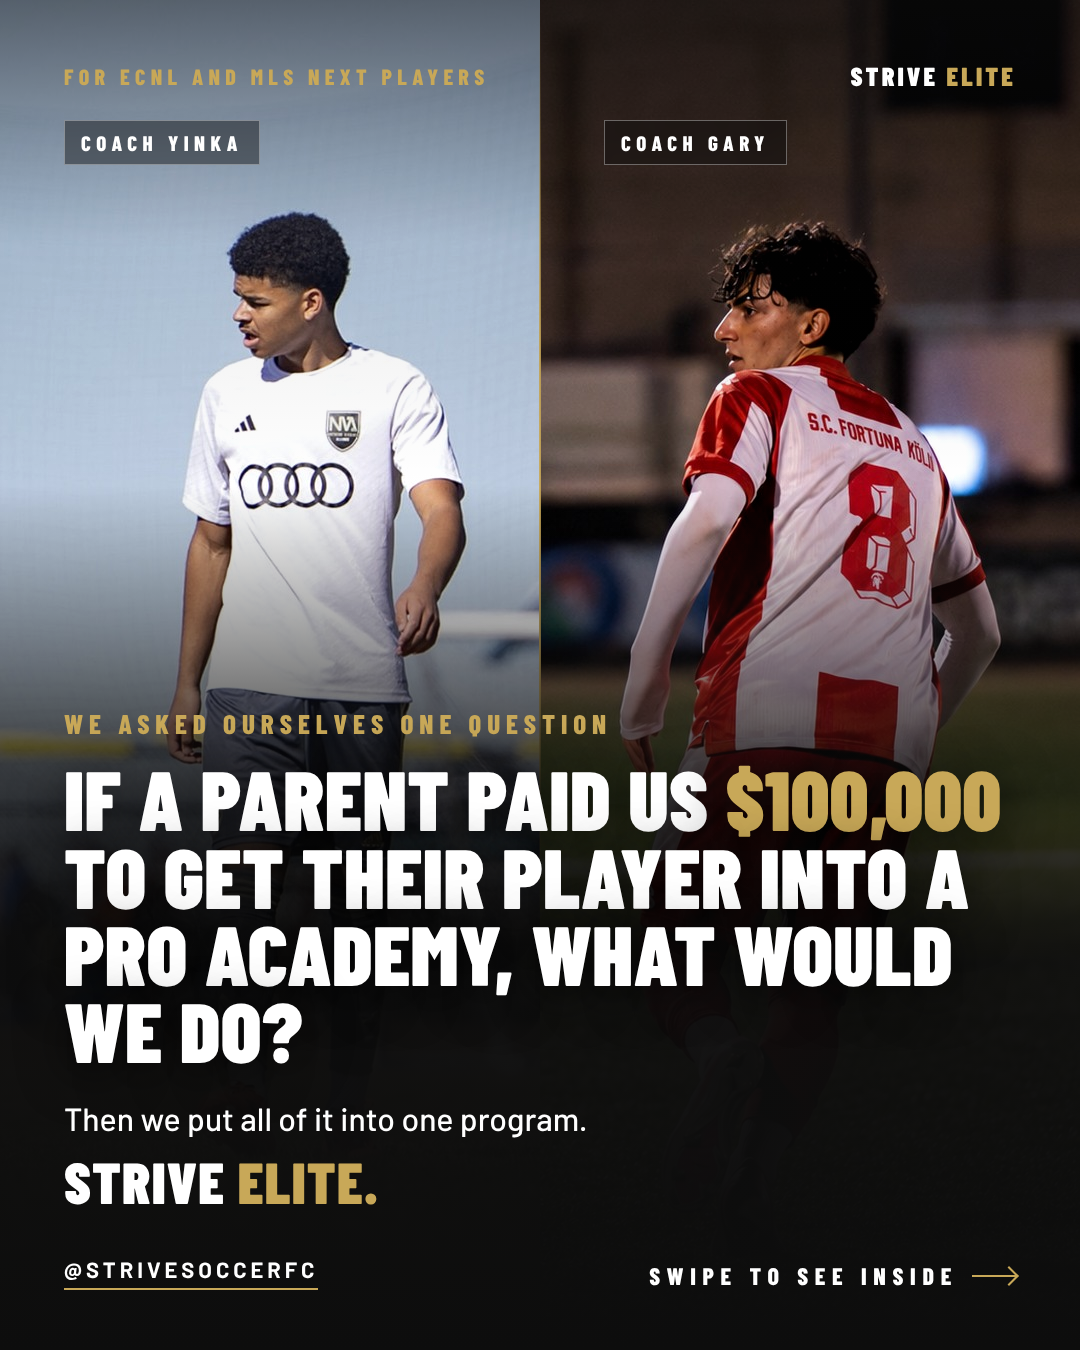
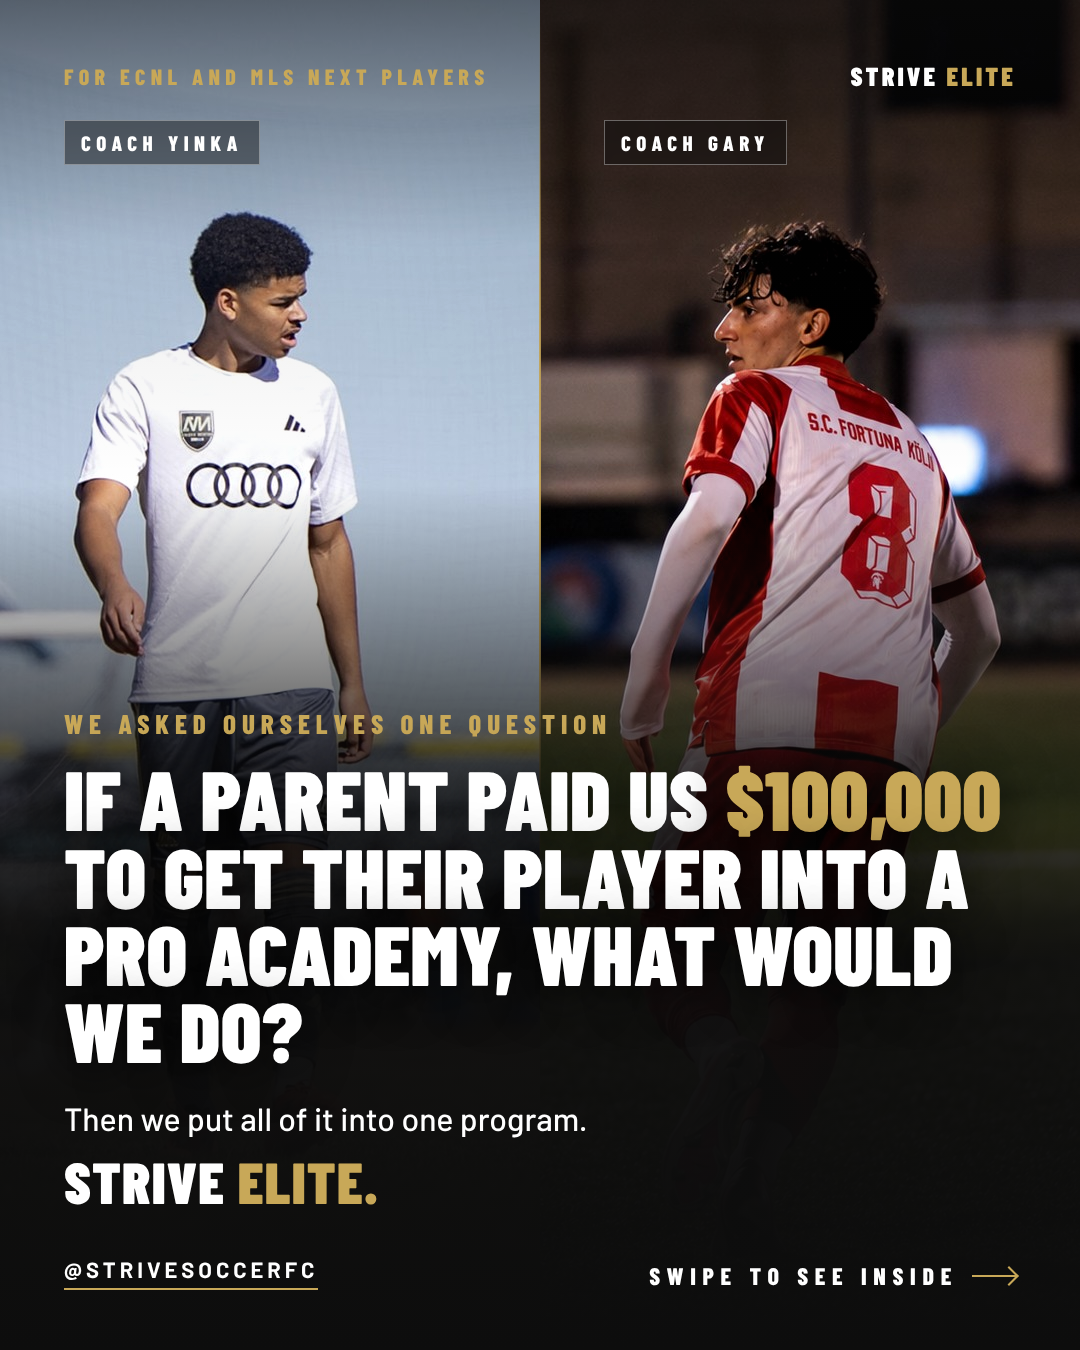
Offer carousel: standing cover option mirrored toward Gary
Claude-Session: https://claude.ai/code/session_011JsCTTjCbUkHbTuWTKQSXJ

Changed region(s): [[0.0, 0.1556, 0.5194, 0.5911], [0.4278, 0.5289, 0.4889, 0.5911], [0.0, 0.5289, 0.0611, 0.5911]]

diff --git a/CLAUDE.md b/CLAUDE.md
@@ -3215,6 +3215,11 @@ commit.
       photo mirrored toward Gary); cover.png stays the sprint version
       until he picks. Sources photos/yinka-standing.jpg and
       photos/yinka-sprint.jpg. Sent.
+      THEN (Coach Yinka: "Mirror the other one towards Gary then show
+      me"): cover-standing.png re-rendered with the standing photo
+      mirrored too, so in both options he faces Gary; the Audi rings
+      and adidas mark read reversed on it. cover.png still the sprint
+      version until he picks. Sent.
 
 ## Growth target (stamped Sept 19, Coach Yinka's own call)
 
